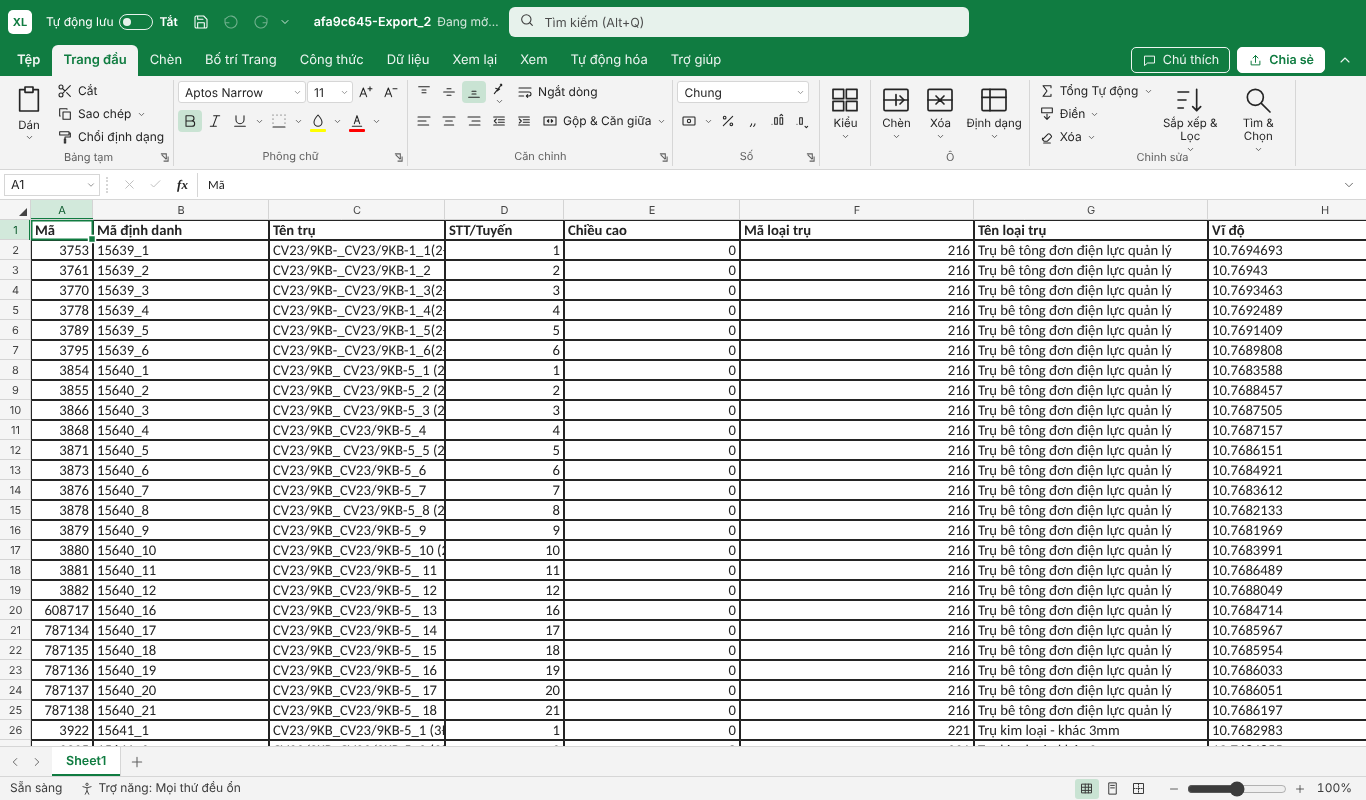
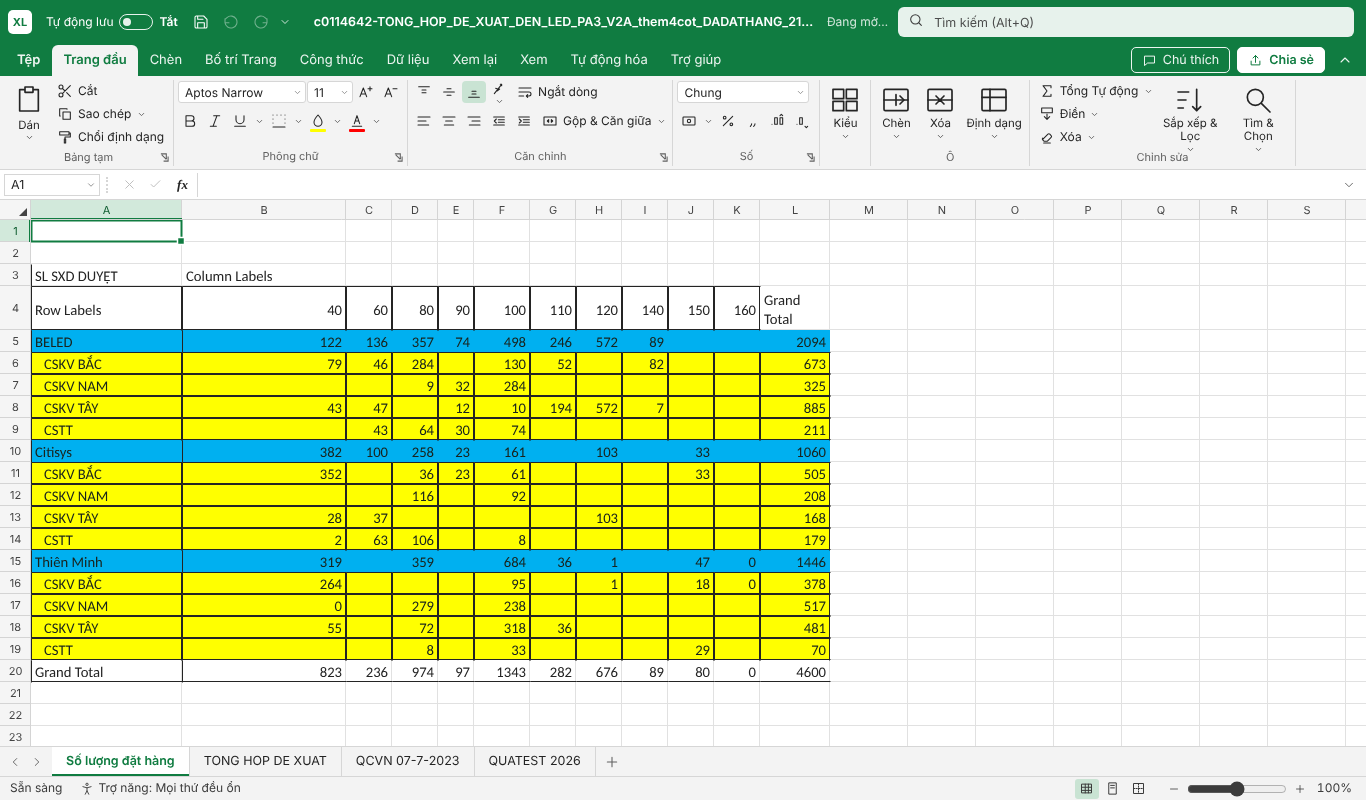
0.9.2: mảng động FILTER/UNIQUE tràn đúng kích thước thật, mở tệp nặng nhanh hơn
- FILTER/UNIQUE: bộ tính trước đây giữ trước vùng tràn bằng kích thước tối đa (vd TOROW(FILTER
  946 hàng) giữ 1.892 cột) → #SPILL! giả và mở tệp rất chậm. Nay bọc XFIT(h;w;…) với kích
  thước thật (lấy từ ref của Excel khi mở tệp, đo lại khi dữ liệu đổi; không vào lịch sử hoàn tác).
- So sánh chuỗi không thử đọc chuỗi không có chữ số thành ngày; nhớ kết quả đọc ngày.
- accentSensitive như Excel; bật chỉ mục cột cho dò tìm (VLOOKUP/XLOOKUP/MATCH).
- Tệp đề xuất đèn LED (11 trang, ~12.000 công thức): mở 22 s → ~9 s, hết #SPILL! giả.

Claude-Session: https://claude.ai/code/session_01DL7nn4nmrym9Q1VvyaBZMJ

diff --git a/src/core/workbook.ts b/src/core/workbook.ts
@@ -1,6 +1,6 @@
 import { DynamicOffsetPlugin, offsetIn, offsetOut } from './offset';
 import { DEFAULT_ALLOW, type PwHash, type ProtectAllow, type SheetProtect } from './protect';
-import { DynArrayPlugin, DYN_NAMES } from './dynarray';
+import { DynArrayPlugin, DYN_NAMES, fitRegistry } from './dynarray';
 import { areaRange, type Area, encodeStructured, decodeStructured, tableCellStyle, tableNameError, dataRows, inTable, xtExpr, totalFormula, type TableDef, type TableReg, type TotalFn } from './tables';
 import { encFormulaNames, decFormulaNames, encName, nameError, renameInFormula } from './names';
 import { HyperFormula, FunctionPlugin, FunctionArgumentType, CellError, ErrorType } from 'hyperformula';
@@ -127,8 +127,9 @@ export const HF_CONFIG: Partial<ConfigParams> = {
   undoLimit: HISTORY,
   maxRows: MAX_ROWS,
   maxColumns: MAX_COLS,
-  useColumnIndex: false,
+  useColumnIndex: true,
   smartRounding: true,
+  accentSensitive: true, // như Excel: “Bến Nghé” khác “Ben Nghe” (và nhanh hơn: không phải bỏ dấu mỗi lần so sánh)
   precisionRounding: 15, // giống Excel: 15 chữ số có nghĩa (mặc định của HyperFormula chỉ 10)
 };
 
@@ -201,6 +202,27 @@ function ensurePlugins() {
   HyperFormula.registerFunctionPlugin(DynArrayPlugin as any, { enGB: Object.fromEntries(DYN_NAMES.map((n) => [n, n])) } as any);
   HyperFormula.registerFunctionPlugin(TableRowPlugin as any, { enGB: { XTHISROW: 'XTHISROW' } } as any);
   HyperFormula.registerFunctionPlugin(DynamicOffsetPlugin as any, { enGB: { XOFS3: 'XOFS3', XOFS4: 'XOFS4', XOFS5: 'XOFS5' } } as any);
+  // So sánh chuỗi (=, <, >…) trong HyperFormula thử đọc chuỗi thành ngày ở MỖI lần so sánh — rất chậm với FILTER/SUMIF
+  // trên vùng lớn. Chuỗi không có chữ số thì không thể là ngày/giờ; chuỗi có số thì nhớ kết quả đọc.
+  try {
+    const probe: any = HyperFormula.buildEmpty(HF_CONFIG);
+    const proto = Object.getPrototypeOf(probe._evaluator.interpreter.arithmeticHelper.dateTimeHelper);
+    const orig = proto.dateStringToDateNumber;
+    if (orig && !orig.__fast) {
+      const memo = new WeakMap<object, Map<string, unknown>>();
+      const fast = function (this: object, s: string) {
+        if (typeof s === 'string' && !/\d/.test(s)) return undefined;
+        let m = memo.get(this); if (!m) memo.set(this, (m = new Map()));
+        if (m.has(s)) return m.get(s);
+        const v = orig.call(this, s);
+        if (m.size > 20000) m.clear();
+        m.set(s, v); return v;
+      };
+      (fast as any).__fast = true;
+      proto.dateStringToDateNumber = fast;
+    }
+    probe.destroy?.();
+  } catch { /* phiên bản HyperFormula khác: bỏ qua tối ưu */ }
   pluginsReady = true;
 }
 /** OFFSET động: đổi công thức khi vào bộ tính và đổi ngược khi đọc ra (xem offset.ts) */
@@ -211,9 +233,16 @@ const fin = (v: string, self: { r: number; c: number } | undefined, sheet: strin
   if (v[0] !== '=') return v;
   let x = offsetIn(v, self, sheet);
   if (ctx && x.includes('[')) x = encodeStructured(x, { tables: ctx.tables(), self: self && { sheet, r: self.r, c: self.c }, need: ctx.need, inline: ctx.inline });
-  return encFormulaNames(x);
+  x = encFormulaNames(x);
+  // mảng động có kích thước phụ thuộc dữ liệu (FILTER, UNIQUE): bọc XFIT để bộ tính chỉ giữ đúng vùng tràn thật
+  // (sổ tính đo kích thước thật rồi đặt lại — xem Workbook.refitDyn); ô trong công thức tính tạm (self rỗng) thì không bọc
+  if (self && DYN_SIZE.test(x) && !/^=\s*XFIT\s*\(/i.test(x)) x = '=XFIT(1;1;' + x.slice(1) + ')';
+  return x;
 };
-const NEEDS_FIN = /OFFSET\s*\(|[^\u0000-\u02AF]|\[/i;
+const DYN_SIZE = /(?<![\w.])(?:_xlfn\.)?(?:_xlws\.)?(?:FILTER|UNIQUE)\s*\(/i;
+const NEEDS_FIN = /OFFSET\s*\(|[^\u0000-\u02AF]|\[|FILTER\s*\(|UNIQUE\s*\(/i;
+/** bỏ lớp bọc XFIT khi đưa công thức ra ngoài (thanh công thức, lưu tệp) */
+const unfit = (f: string) => { const m = /^=XFIT\(\s*\d+\s*[;,]\s*\d+\s*[;,]/i.exec(f); return m && f.endsWith(')') ? '=' + f.slice(m[0].length, -1) : f; };
 function mapRows(cells: RawCellContent[][], sheet: string, r0 = 0, c0 = 0, ctx?: TblCtx): RawCellContent[][] {
   let hit = false;
   for (const row of cells) { if (row) for (const v of row) if (typeof v === 'string' && v[0] === '=' && NEEDS_FIN.test(v)) { hit = true; break; } if (hit) break; }
@@ -240,13 +269,14 @@ function patchOffset(hf: HyperFormula): HyperFormula {
     if (Array.isArray(c)) return set(a, mapRows(c, name, a.row, a.col, ctx));
     return set(a, typeof c === 'string' ? fin(c, { r: a.row, c: a.col }, name, ctx) : c);
   };
-  const out = (f: string, at?: { sheet: number; r: number; c: number }) => decodeStructured(decFormulaNames(offsetOut(f), nameDisplay(hf)), hfTables(hf), at);
+  const out = (f: string, at?: { sheet: number; r: number; c: number }) => decodeStructured(decFormulaNames(offsetOut(unfit(f)), nameDisplay(hf)), hfTables(hf), at);
   const calc = h.calculateFormula.bind(hf);
   h.calculateFormula = (f: string, sheet: number) => calc(fin(f, undefined, hf.getSheetName(sheet) ?? '', { ...tblCtx(hf), inline: true }), sheet);
   const vf = h.validateFormula.bind(hf);
   h.validateFormula = (f: string) => vf(f.includes('[') ? encodeStructured(f, { tables: hfTables(hf), need: () => {}, inline: true }).replace(/(?<![\w'!])\[(?:[^[\]]|\[[^\]]*\])*\]/g, '1') : f);
   h.setSheetContent = (id: number, cells: RawCellContent[][]) => sheetSet(id, mapRows(cells, hf.getSheetName(id) ?? '', 0, 0, tblCtx(hf)));
   h.__rawFormula = (a: any) => gf(a);
+  h.__rawSet = set;
   h.getCellFormula = (a: any) => { const f = gf(a); return f === undefined ? f : out(f, { sheet: a.sheet, r: a.row, c: a.col }); };
   h.getCellSerialized = (a: any) => { const v = gs(a); return typeof v === 'string' && v[0] === '=' ? out(v, { sheet: a.sheet, r: a.row, c: a.col }) : v; };
   h.getSheetSerialized = (id: number) => gss(id).map((row: any[], i: number) => row.map((v, j) => (typeof v === 'string' && v[0] === '=' ? out(v, { sheet: id, r: i, c: j }) : v)));
@@ -307,7 +337,34 @@ export class Workbook {
   onChange(f: () => void) { this.listeners.add(f); return () => this.listeners.delete(f); }
   /** Tăng mỗi khi sổ thay đổi — dùng làm khóa bộ nhớ đệm (CF) */
   ver = 0;
-  private emit() { this.ver++; if (this.iterate.on) this.resolveIter(); this.listeners.forEach((f) => f()); }
+  private emit() { this.ver++; this.refitDyn(); if (this.iterate.on) this.resolveIter(); this.listeners.forEach((f) => f()); }
+  /**
+   * Mảng động FILTER/UNIQUE: đặt lại kích thước vùng giữ trước của XFIT theo kết quả thật (như Excel tràn đúng số ô).
+   * Không ghi vào lịch sử Hoàn tác: hoàn tác/làm lại thao tác gốc thì kích thước lại được đo và đặt lại.
+   */
+  refitDyn() {
+    const h = this.hf as any, reg = fitRegistry(h._dependencyGraph);
+    if (!reg.size) return;
+    const ur = h._crudOperations?.undoRedo;
+    for (let pass = 0; pass < 4 && reg.size; pass++) {
+      const items = [...reg.values()]; reg.clear();
+      const lim = ur?.undoLimit, depth = ur?.undoStack.length ?? 0, redo = ur?.redoStack, clr = ur?.clearRedoStack;
+      if (ur) { ur.undoLimit = Number.MAX_SAFE_INTEGER; ur.clearRedoStack = () => {}; }
+      try {
+        this.hf.batch(() => {
+          for (const it of items) {
+            const a = { sheet: it.s, row: it.r, col: it.c };
+            const raw: string | undefined = h.__rawFormula(a);
+            if (!raw || !/^=XFIT\(/i.test(raw)) continue;
+            const nf = raw.replace(/^=XFIT\(\s*\d+\s*([;,])\s*\d+\s*[;,]/i, (_m: string, sep: string) => `=XFIT(${it.h}${sep}${it.w}${sep}`);
+            if (nf !== raw) h.__rawSet(a, nf);
+          }
+        });
+      } finally {
+        if (ur) { ur.undoStack.length = Math.min(ur.undoStack.length, depth); ur.undoLimit = lim; ur.clearRedoStack = clr; ur.redoStack = redo; }
+      }
+    }
+  }
 
   // ---------- lịch sử ----------
   private hfDepth(): number | null {
@@ -3123,6 +3180,7 @@ export class Workbook {
       }
       wb.hf.resumeEvaluation();
     }
+    wb.refitDyn();
     wb.hf.clearUndoStack();
     if (d.calc) wb.iterate = { on: !!d.calc.on, count: d.calc.count ?? 100, delta: d.calc.delta ?? 0.001 };
     for (const [n, r, c, v] of d.iterVals ?? []) { const id = wb.hf.getSheetId(n); if (id !== undefined) wb.seeds.set(id + ':' + r + ':' + c, v); }

diff --git a/src/core/dynarray.ts b/src/core/dynarray.ts
@@ -30,8 +30,25 @@ export class DynArrayPlugin extends FunctionPlugin {
     CHOOSECOLS: { method: 'choosecols', sizeOfResultArrayMethod: 'chooseColsSize', parameters: [{ argumentType: R }, { argumentType: N }], repeatLastArgs: 1, vectorizationForbidden: true },
     CHOOSEROWS: { method: 'chooserows', sizeOfResultArrayMethod: 'chooseRowsSize', parameters: [{ argumentType: R }, { argumentType: N }], repeatLastArgs: 1, vectorizationForbidden: true },
     TOCOL: { method: 'tocol', sizeOfResultArrayMethod: 'toColSize', parameters: [{ argumentType: R }, { argumentType: N, defaultValue: 0 }, { argumentType: N, defaultValue: 0 }], vectorizationForbidden: true },
+    XFIT: { method: 'xfit', sizeOfResultArrayMethod: 'xfitSize', enableArrayArithmeticForArguments: true, parameters: [{ argumentType: N }, { argumentType: N }, { argumentType: R }], vectorizationForbidden: true },
     TOROW: { method: 'torow', sizeOfResultArrayMethod: 'toRowSize', parameters: [{ argumentType: R }, { argumentType: N, defaultValue: 0 }, { argumentType: N, defaultValue: 0 }], vectorizationForbidden: true },
   };
+  /** XFIT(h; w; biểu_thức): vùng tràn đúng kích thước h×w đã biết (lần tính trước) thay vì kích thước tối đa có thể */
+  xfitSize(ast: any) { const h = lit(ast.args?.[0]), w = lit(ast.args?.[1]); return h && w && h > 0 && w > 0 ? new ArraySize(w, h) : ArraySize.error(); }
+  xfit(ast: any, state: any) {
+    const at = state.formulaAddress, reg = fitRegistry((this as any).dependencyGraph);
+    const k = at ? `${at.sheet}:${at.row}:${at.col}` : '';
+    return (this as any).runFunction(ast.args, state, (this as any).metadata('XFIT'), (h: number, w: number, v: SimpleRangeValue | CellError) => {
+      if (isErr(v)) { if (k) { if (h === 1 && w === 1) reg.delete(k); else reg.set(k, { s: at.sheet, r: at.row, c: at.col, h: 1, w: 1 }); } return v; }
+      const ah = v.height(), aw = v.width();
+      if (k) { if (ah === h && aw === w) reg.delete(k); else reg.set(k, { s: at.sheet, r: at.row, c: at.col, h: ah, w: aw }); }
+      if (ah === h && aw === w) return v;
+      // tạm thời: cắt/đệm cho vừa vùng đã giữ; sổ tính sẽ đặt lại kích thước rồi tính lại
+      const d = v.data as Grid, g: Grid = [];
+      for (let i = 0; i < h; i++) { const row: unknown[] = []; for (let j = 0; j < w; j++) row.push(i < ah && j < aw ? d[i][j] : EmptyValue); g.push(row); }
+      return out(g);
+    });
+  }
   private sz(ast: any, state: any, i = 0) { return (this as any).arraySizeForAst(ast.args[i], state) as ArraySize; }
   firstSize(ast: any, state: any) { if (!ast.args.length) return ArraySize.error(); const a = this.sz(ast, state); return new ArraySize(a.width, a.height); }
   takeSize(ast: any, state: any) {
@@ -118,4 +135,8 @@ export class DynArrayPlugin extends FunctionPlugin {
   tocol(ast: any, state: any) { return (this as any).runFunction(ast.args, state, (this as any).metadata('TOCOL'), (arr: SimpleRangeValue, ig: number, bc: number) => { const f = this.flat(arr, ig, bc); return f.length ? out(f.map((v) => [v])) : new CellError(ErrorType.VALUE); }); }
   torow(ast: any, state: any) { return (this as any).runFunction(ast.args, state, (this as any).metadata('TOROW'), (arr: SimpleRangeValue, ig: number, bc: number) => { const f = this.flat(arr, ig, bc); return f.length ? out([f]) : new CellError(ErrorType.VALUE); }); }
 }
-export const DYN_NAMES = ['FILTER', 'SORTBY', 'TAKE', 'DROP', 'CHOOSECOLS', 'CHOOSEROWS', 'TOCOL', 'TOROW'];
+/** ô XFIT có kích thước thật khác kích thước đang giữ: khóa "sheet:hàng:cột" → kích thước thật (theo từng bộ tính) */
+export interface FitMiss { s: number; r: number; c: number; h: number; w: number }
+const FIT = new WeakMap<object, Map<string, FitMiss>>();
+export function fitRegistry(graph: object): Map<string, FitMiss> { let m = FIT.get(graph); if (!m) FIT.set(graph, (m = new Map())); return m; }
+export const DYN_NAMES = ['XFIT', 'FILTER', 'SORTBY', 'TAKE', 'DROP', 'CHOOSECOLS', 'CHOOSEROWS', 'TOCOL', 'TOROW'];

diff --git a/tests/dynfit.test.ts b/tests/dynfit.test.ts
@@ -1,0 +1,65 @@
+import { describe, it, expect } from 'vitest';
+import { Workbook } from '../src/core/workbook';
+import { readXlsx, writeXlsx } from '../src/core/xlsx';
+
+const W = () => { const wb = Workbook.create(); return { wb, s: wb.sheetIds()[0] }; };
+
+describe('Mảng động tràn đúng kích thước thật (như Excel)', () => {
+  it('FILTER chỉ giữ số hàng có kết quả: ô ngay dưới không gây #SPILL!', () => {
+    const { wb, s } = W();
+    ['a', 'b', 'c', 'd', 'e'].forEach((v, i) => { wb.setInput(s, i, 0, v); wb.setInput(s, i, 1, String(i)); });
+    wb.setInput(s, 3, 3, 'chặn'); // D4 — nằm trong vùng tối đa (5 hàng) nhưng ngoài kết quả thật (2 hàng)
+    wb.setInput(s, 0, 3, '=FILTER(A1:A5;B1:B5>=3)');
+    expect(wb.value(s, 0, 3)).toBe('d');
+    expect(wb.value(s, 1, 3)).toBe('e');
+    expect(wb.rawText(s, 0, 3)).toBe('=FILTER(A1:A5;B1:B5>=3)');
+    expect(wb.spillRange(s, 0, 3)?.range).toEqual({ r1: 0, c1: 3, r2: 1, c2: 3 });
+  });
+  it('dữ liệu đổi → vùng tràn co/giãn; hoàn tác trả về như cũ', () => {
+    const { wb, s } = W();
+    [1, 5, 2, 8].forEach((v, i) => wb.setInput(s, i, 0, String(v)));
+    wb.setInput(s, 0, 2, '=FILTER(A1:A4;A1:A4>4)');
+    expect([wb.value(s, 0, 2), wb.value(s, 1, 2), wb.value(s, 2, 2)]).toEqual([5, 8, null]);
+    wb.setInput(s, 0, 0, '9');
+    expect([wb.value(s, 0, 2), wb.value(s, 1, 2), wb.value(s, 2, 2)]).toEqual([9, 5, 8]);
+    wb.setInput(s, 1, 0, '0'); wb.setInput(s, 3, 0, '0');
+    expect([wb.value(s, 0, 2), wb.value(s, 1, 2)]).toEqual([9, null]);
+    wb.undo(); wb.undo(); wb.undo();
+    expect([wb.value(s, 0, 2), wb.value(s, 1, 2), wb.value(s, 2, 2)]).toEqual([5, 8, null]);
+    wb.redo();
+    expect([wb.value(s, 0, 2), wb.value(s, 1, 2), wb.value(s, 2, 2)]).toEqual([9, 5, 8]);
+    expect(wb.canRedo()).toBe(true);
+  });
+  it('TOROW(FILTER(HSTACK(...))) như tệp đề xuất đèn LED: tràn ngang đúng số cột', () => {
+    const { wb, s } = W();
+    const rows = [['P1', 'Carina', 'TM', 2], ['P2', 'Magnolia', 'BL', 3], ['P1', 'Nova', 'TM', 1], ['P1', 'Iris', 'X', 4]];
+    rows.forEach((r, i) => r.forEach((v, j) => wb.setInput(s, 10 + i, j, String(v))));
+    wb.setInput(s, 0, 0, 'P1');
+    wb.setInput(s, 0, 8, 'kế bên'); // I1
+    wb.setInput(s, 0, 1, '=TOROW(FILTER(HSTACK(B11:B14&"/"&C11:C14;D11:D14);A11:A14=A1;""))');
+    const vals = Array.from({ length: 7 }, (_, j) => wb.value(s, 0, 1 + j));
+    expect(vals).toEqual(['Carina/TM', 2, 'Nova/TM', 1, 'Iris/X', 4, null]);
+    expect(wb.value(s, 0, 8)).toBe('kế bên');
+  });
+  it('FILTER không có kết quả dùng giá trị nếu_rỗng (1 ô)', () => {
+    const { wb, s } = W();
+    wb.setInput(s, 0, 0, '1'); wb.setInput(s, 1, 0, '2');
+    wb.setInput(s, 0, 1, '=FILTER(A1:A2;A1:A2>5;"không có")');
+    expect(wb.value(s, 0, 1)).toBe('không có');
+    expect(wb.spillRange(s, 0, 1)).toBe(null);
+  });
+  it('lưu .xlsx: không có XFIT, ref đúng kích thước; mở lại vẫn đúng', async () => {
+    const { wb, s } = W();
+    [1, 5, 2, 8].forEach((v, i) => wb.setInput(s, i, 0, String(v)));
+    wb.setInput(s, 0, 2, '=FILTER(A1:A4;A1:A4>1)');
+    const buf = await writeXlsx(wb);
+    const JSZip = (await import('jszip')).default;
+    const x = await (await JSZip.loadAsync(buf)).file('xl/worksheets/sheet1.xml')!.async('string');
+    expect(x).not.toMatch(/XFIT/);
+    expect(x).toMatch(/ref="C1:C3"/);
+    const { wb: w2 } = await readXlsx(buf);
+    const s2 = w2.sheetIds()[0];
+    expect([w2.value(s2, 0, 2), w2.value(s2, 2, 2), w2.value(s2, 3, 2)]).toEqual([5, 8, null]);
+    expect(w2.canUndo()).toBe(false);
+  });
+});

diff --git a/src/core/xlsx.ts b/src/core/xlsx.ts
@@ -493,6 +493,11 @@ export async function readXlsxBook(buf: ArrayBuffer | Uint8Array): Promise<{ boo
           else { const m = masters.get('si' + cl.f.si); raw = m ? shiftFormula(m.f, r - m.r, c - m.c) : plainVal(cl).raw; }
         } else if (cl.f.text) raw = toVi('=' + stripPrefixes(cl.f.text));
         else ({ raw, isText } = plainVal(cl));
+        // mảng động FILTER/UNIQUE: lấy kích thước tràn Excel đã lưu (ref) làm kích thước giữ trước — mở nhanh, không phải đo lại
+        if (cl.f.t === 'array' && cl.f.ref && typeof raw === 'string' && /(?:FILTER|UNIQUE)\s*\(/i.test(raw)) {
+          const g = parseRange(cl.f.ref);
+          if (g) raw = `=XFIT(${g.r2 - g.r1 + 1};${g.c2 - g.c1 + 1};${(raw as string).slice(1)})`;
+        }
       } else ({ raw, isText } = plainVal(cl));
       // chữ trông như số/công thức/ngày → giữ là chữ (thêm dấu ' như Excel)
       if (isText && needsApostrophe(raw as string)) raw = "'" + raw;

diff --git a/tests/dynarray.test.ts b/tests/dynarray.test.ts
@@ -59,7 +59,7 @@ describe('Mảng động trong .xlsx', () => {
     const buf = await writeXlsx(wb);
     const z = await JSZip.loadAsync(buf);
     const x = await z.file('xl/worksheets/sheet1.xml')!.async('string');
-    expect(x).toMatch(/<c r="F1"[^>]* cm="1"><f t="array" ref="F1:H4">_xlfn\._xlws\.FILTER\(/);
+    expect(x).toMatch(/<c r="F1"[^>]* cm="1"><f t="array" ref="F1:H3">_xlfn\._xlws\.FILTER\(/);
     expect(await z.file('xl/metadata.xml')?.async('string')).toMatch(/XLDAPR/);
     // giả lập tệp Excel: ô tràn có giá trị lưu sẵn
     const x2 = x.replace(/<c r="G1"[^>]*\/>|<c r="G1"[^>]*>[\s\S]*?<\/c>/, '<c r="G1"><v>3</v></c>');

diff --git a/src/ui/version.ts b/src/ui/version.ts
@@ -1,2 +1,2 @@
 // Phiên bản hiển thị trong app
-export const VERSION = '0.9.1';
+export const VERSION = '0.9.2';
